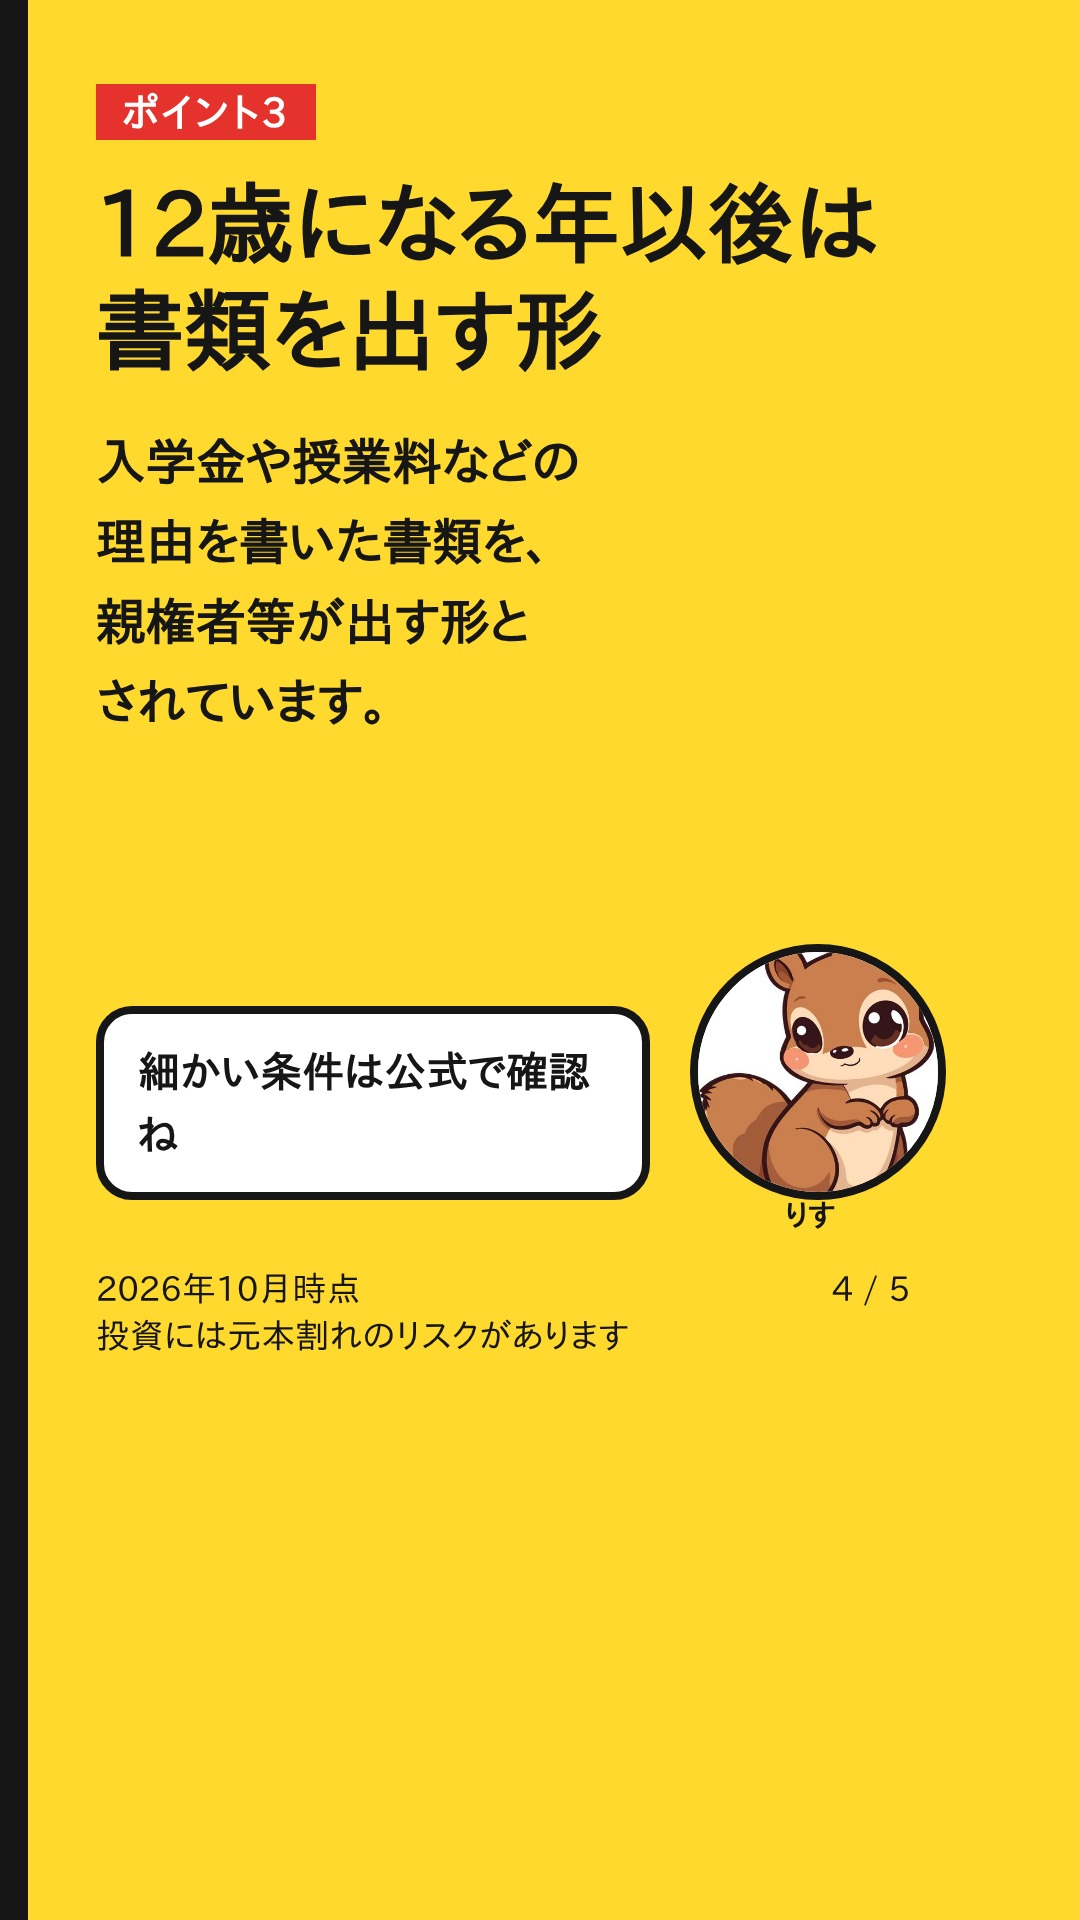
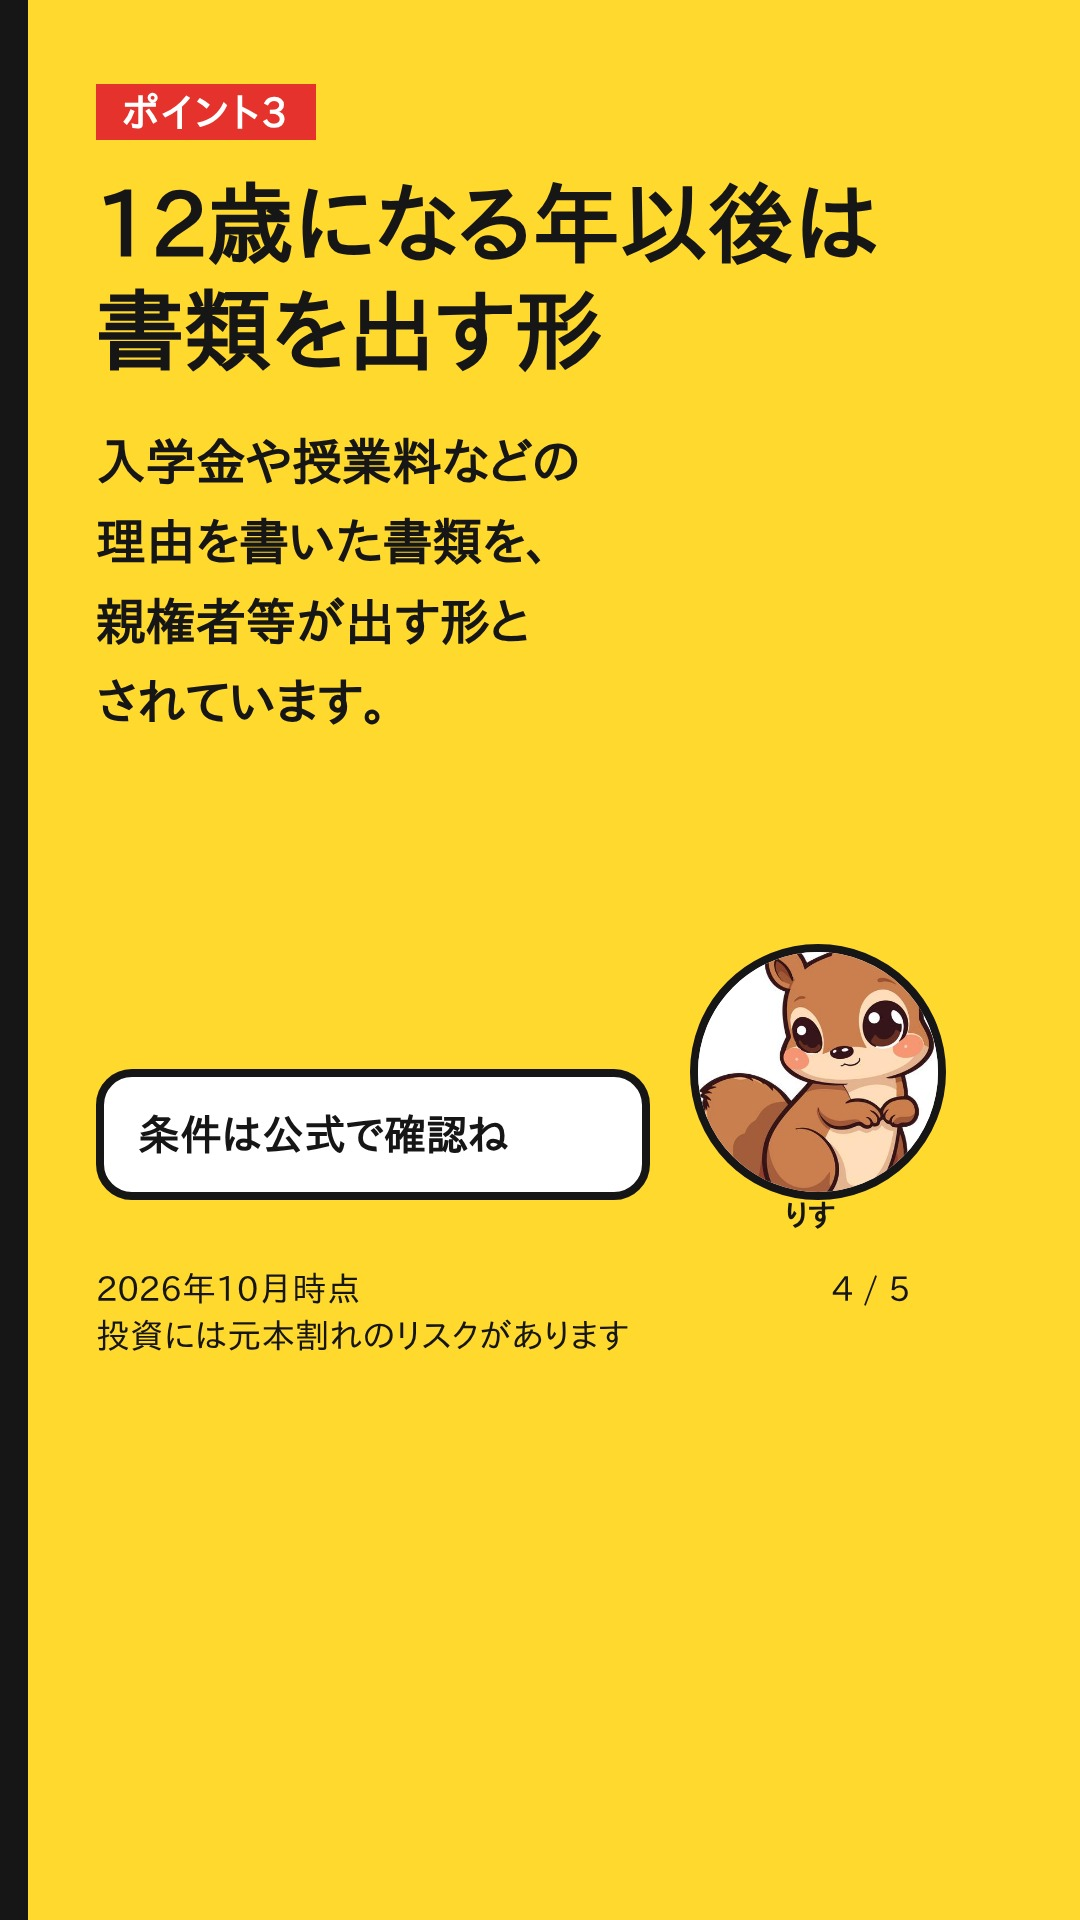
TikTok素材16「12歳より前に引き出せる？」: 検品合格、吹き出しと説明文を調整
Claude-Session: https://claude.ai/code/session_01Ta5Aa63WJBXu8reywHLzZN

Changed region(s): [[0.0611, 0.5, 0.6111, 0.625]]

diff --git a/reviews/tiktok-2026-10-29.md b/reviews/tiktok-2026-10-29.md
@@ -1,0 +1,58 @@
+# 検品: TikTok写真投稿 16 12歳より前に引き出せる？（第1回）
+- 検品日: 2026-10-29
+- 対象: posts/tiktok/16-12sai-mae.json、posts/tiktok/16-12sai-mae/slide-01〜05.jpg（全5枚を目視、1080x1920）、narration-140.md「16」、captions.md「16」
+- 根拠: research/20261017-moushikomi-mae.md（1-7 財務省の大綱の払出しの制限の項、および1-1・1-2・1-4）、docs/compliance.md、docs/tiktok-flow.md、reviews/tiktok-2026-10-27.md
+- 判定: 【合格】
+- スコア: A法令 OK ・ B事実 4/5 ・ C企画SEO 4/5 ・ D読みやすさ 4/5
+
+注: リンクなし・アフィリエイト要素なしのためPR表記は不要（前例と同じ扱い）。WebFetchでの公式再確認は行っていない。照合は research の原文引用による。成立後の条文・政令は research でも未確認。
+
+## 必須修正（差し戻し理由）
+なし。
+
+## A 法令（OK）
+- 「No.1」「最安」「必ず」、利回り・増える等の断定、会社名・商品名の推奨、勧誘はない。
+- 元本割れ：全5枚のフッター、5枚目の箇条書き、台本、キャプションに注記あり。
+- 時点：全5枚のフッターとキャプションに「2026年10月時点」。台本は音声用で時点の文言なし（これまでと同じ扱いで許容）。
+- 断定回避：2枚目「財務省の大綱では…とされています」と主体を明示。3枚目「限られるとされています」、4枚目「出す形とされています」。台本も「必要とされています」。キャプションは「成立後の条文は未確認」と明記しており誠実。
+- 贈与税への言及なし。リンクなし。体験の捏造なし。他サイトの引用なし。
+
+## B 事実（4/5）
+- 2枚目「18歳となる年の前年末まで、原則として払い出せない」は 1-7（基準年＝18歳となる年の前年12月31日までは原則払い出せない）と一致。「基準年」という語を使わず、読み手に分かる形にしている。
+- 3枚目「居住する家屋が全壊した場合など、税務署長の確認を受けて全部を払い出す場合に限られる」は 1-7（災害で居住する家屋が全壊した場合など、税務署長の確認を受けた場合に、全部を払い出す場合のみ）と一致。「全部を」を落としていない点は良い。
+- 4枚目「入学金や授業料などの理由を書いた書類を、親権者等が出す」は 1-7（払出しの基因となる事由を記載した書類を提出、手続きは親権者等）と一致。
+- 台本は「家が全壊」と略すが、画像・キャプションが「居住する家屋」で正しく、台本は「など」「必要とされています」で緩めてあり許容。
+- 減点1（年齢の言い方）：大綱の区切りは「その年3月31日に12歳である年」であり、誕生日で12歳になる年ではない。4〜12月生まれの子は、12歳の誕生日の年ではなく翌年が該当する。4枚目タイトル「12歳になる年以後」、5枚目「12歳以降は書類を出す形」、1枚目・5枚目の「12歳より前」は、最大約1年ずれうる。research の要約表も同じ略し方だが、原文とは異なる。「とされています」で弱めてはあるが、年齢の起点を誤読させる余地がある。
+- 減点2（省略）：書類提出に「子の同意を示す書面の添付」が必要な点（1-1、1-2、1-7）が画像・台本に出ない。誤りではなく省略。キャプションにも無い。
+
+## C 企画SEO（4/5）
+- 検索意図「12歳より前に引き出せるか」に、2枚目で原則不可、3枚目で例外、4枚目で12歳以後、5枚目でまとめ。1枚目の問いに早く答えている。
+- 台本は113字（文ごとに数えて確認）で140字以内。数字（18歳・12歳）は画像・台本・キャプションで一致。
+- 重複確認：依頼文の「10（12歳から引き出せる？）」は存在しない。10は「0歳」（10-0sai）。12歳の引き出しに触れているのは 02（4枚目）と 03（2〜3枚目）。03は「0〜11歳は原則引き出せない」「12歳から条件つき」が主題で、16は「12歳前の例外（災害の全壊・税務署長の確認）」が新しい論点。切り口は違うので許容。ただし 4枚目（12歳以後の書類）は 03 の2枚目とほぼ同内容で、重複感がある。
+- 整合：03の「0〜11歳は、原則として引き出せません」と、16の「12歳前の例外」は矛盾しない（03は「原則」と書いている）。
+- キャプションのハッシュタグは14と同じ並びで問題なし。
+
+## D 読みやすさ（4/5）
+- 文字の欠け・はみ出しなし。本文の最右端は3枚目1行目 x≒830、4枚目タイトル x≒880（目安940以内）、5枚目の箇条書き最右端 x≒810。
+- 改行：本文は文節で4行。1〜2枚目は意味の切れ目で自然。
+- 隠れる領域：フッター y≒1270〜1350、吹き出し・キャラ y≒940〜1200、CTA y≒1050〜1200。下部UI領域（y≒1440以降）に文字なし。
+- 減点：3枚目の吹き出し「ごく限られた例外なんじゃ／な」、4枚目の吹き出し「細かい条件は公式で確認／ね」は、最後の1文字だけが2行目に落ちている（孤立）。欠けてはいないが見栄えが悪い。
+- 減点：1枚目の y≒450〜900 が空白で間延び、左端の黒い縞（約28px）。シリーズ共通。
+- 軽微：3枚目の吹き出し「ごく限られた」は、研究上の根拠（「のみ」）から自然な読みだが、「ごく」は強めの形容。5枚目の4つ目の箇条書き「※元本割れのリスクあり」は要点と注記が同列（シリーズ共通）。
+
+## 推奨修正（合格を妨げない）
+- 4枚目タイトルを「12歳になる年以後」から、「12歳になる年度以後」などに直すか、本文に「年齢の数え方など細かい条件は公式で確認」と加える。厳密には「その年の3月31日に12歳である年以後」。5枚目「12歳以降」も同じ。少なくともキャプションに「年齢の区切りは3月31日時点」の一文を足すとよい。
+- 3枚目と4枚目の吹き出しを1行に収める。例：「ごく限られた例外じゃな」「細かい条件は公式でね」。
+- 4枚目の本文に「子の同意を示す書面とともに」を足す（1-1、1-2、1-7）。足せない場合も、台本・キャプションで補う。
+- 4枚目は 03 の2枚目とほぼ同内容なので、「生活費」「違反した払出しの課税（20%）」など別の論点に替える手もある。ただし課税は税の話に近づくので、オーナー判断が必要。
+- 成立後の政令・省令が公表されたら、払出し事由・書類・年齢の区切りを再確認する（research の申し送りどおり）。
+- 1枚目の空白、左端の黒い縞は、シリーズ共通のためまとめて見直し。
+
+## 良かった点
+- 結論（原則不可、例外は災害の全壊など、税務署長の確認が必要）を2〜3枚目で即答し、大綱の主体を本文に入れている。
+- 「全部を払い出す場合に限る」「税務署長の確認」など、research の限定条件を落とさずに書いている。
+- キャプションで「成立後の条文は未確認」「各金融機関の案内で確認」と書き、確認できていない点を隠していない。
+- 元本割れ・時点が画像・キャプションにそろい、贈与税にもリンクにも触れていない。
+
+## 次の対応
+- 合格。社長が公開待ちへ進めてよい。可能なら、推奨の最初の項目（3月31日時点の区切りの補足）と吹き出しの孤立を直してから素材を出す。recorder に、第1回合格と推奨を記録させる。

diff --git a/posts/tiktok/captions.md b/posts/tiktok/captions.md
@@ -36,5 +36,5 @@
 - ハッシュタグ：#こどもNISA #NISA #つみたて投資枠 #子育てとお金 #お金の勉強 #資産形成
 
 ## 16 12歳より前に引き出せる？（16-12sai-mae）
-- 文章：こどもNISA、12歳より前に引き出せる？ 財務省の大綱では、原則として18歳となる年の前年末まで払い出せず、例外は災害で居住する家屋が全壊した場合など（税務署長の確認が必要）とされています。12歳になる年以後は、教育費などの理由を書いた書類を親権者等が出す形とされています（公表資料にもとづく整理。成立後の条文は未確認）。細かい条件は各金融機関の案内で確認を。※2026年10月時点。投資には元本割れのリスクがあります。
+- 文章：こどもNISA、12歳より前に引き出せる？ 財務省の大綱では、原則として18歳となる年の前年末まで払い出せず、例外は災害で居住する家屋が全壊した場合など（税務署長の確認が必要）とされています。12歳になる年以後（その年3月31日に12歳である年以後）は、教育費などの理由を書いた書類を親権者等が出す形とされています（公表資料にもとづく整理。成立後の条文は未確認）。細かい条件は各金融機関の案内で確認を。※2026年10月時点。投資には元本割れのリスクがあります。
 - ハッシュタグ：#こどもNISA #NISA #つみたて投資枠 #子育てとお金 #お金の勉強 #資産形成
